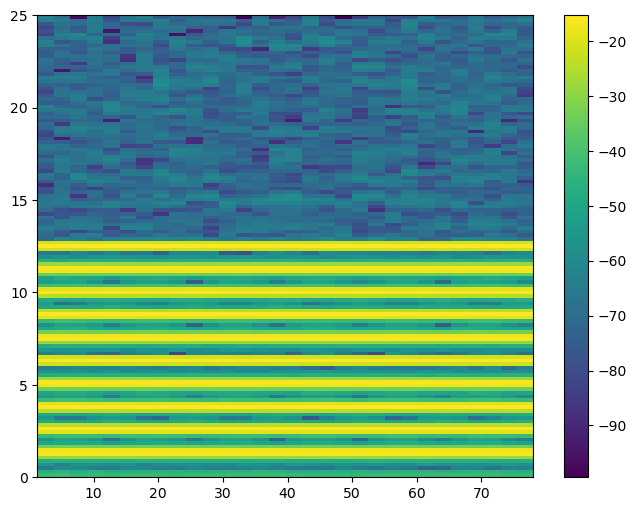
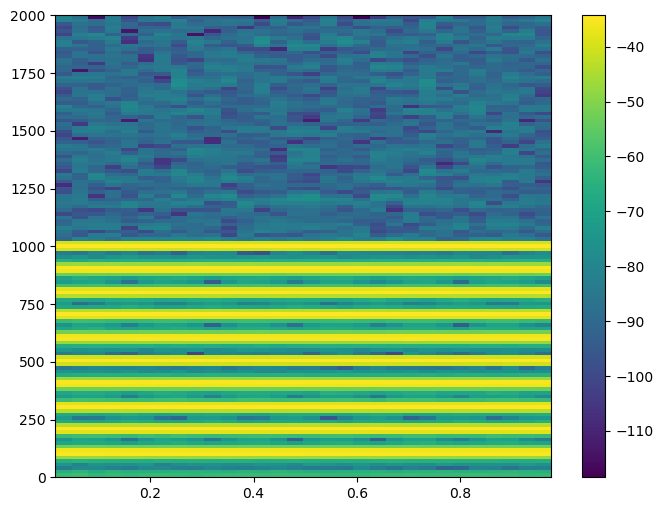
spectro

diff --git a/Task2/main (1).py b/Task2/main (1).py
@@ -162,6 +162,7 @@ class Functions (Ui_MainWindow):
         max_slider= self.max_spectro_slider.value()
         print(min_slider)
         print(max_slider)
+        global fs
         fs=self.sampling_rate
         palette = ['viridis', 'plasma', 'inferno', 'magma', 'cividis']
 
@@ -171,12 +172,12 @@ class Functions (Ui_MainWindow):
         f = plot.figure()
         f.set_figwidth(8)
         f.set_figheight(6)
-        plot.specgram(self.Ampltuides, Fs=50, cmap=cmap) 
+        plot.specgram(self.Ampltuides, Fs=fs, cmap=cmap) 
         cb1=plot.colorbar()
         plot.savefig('spectroo1.png', bbox_inches='tight')
         self.spectro1.setPixmap(QtGui.QPixmap('spectroo1.png'))
         self.spectro2.setPixmap(QtGui.QPixmap('spectroo1.png'))
-        plot.specgram(y, Fs=50, cmap=cmap, scale='dB', vmin=min_slider, vmax=max_slider)
+        plot.specgram(y, Fs=fs, cmap=cmap, scale='dB', vmin=min_slider, vmax=max_slider)
         cb1.remove()
         plot.colorbar()
         plot.savefig('spectroo2.png', bbox_inches='tight')
@@ -216,7 +217,7 @@ class Functions (Ui_MainWindow):
         plot.title("Original Signal")
         plot.xlim(0, 0.4)
         plot.subplot(222)
-        plot.specgram(self.Ampltuides, Fs=50, cmap=cmap)  # plot spectrogram of the signal
+        plot.specgram(self.Ampltuides, Fs=fs, cmap=cmap)  # plot spectrogram of the signal
         plot.title("Original Spectrogram")
         plot.colorbar()
         plot.subplot(223)
@@ -224,7 +225,7 @@ class Functions (Ui_MainWindow):
         plot.title("Modefied signal")
         plot.xlim(0, 0.4)
         plot.subplot(224)
-        plot.specgram(y, Fs=50, cmap=cmap, scale='dB', vmin=min_slider, vmax=max_slider)
+        plot.specgram(y, Fs=fs, cmap=cmap, scale='dB', vmin=min_slider, vmax=max_slider)
         plot.title("Modefied spectrogram")
         plot.colorbar()
         plot.tight_layout()
